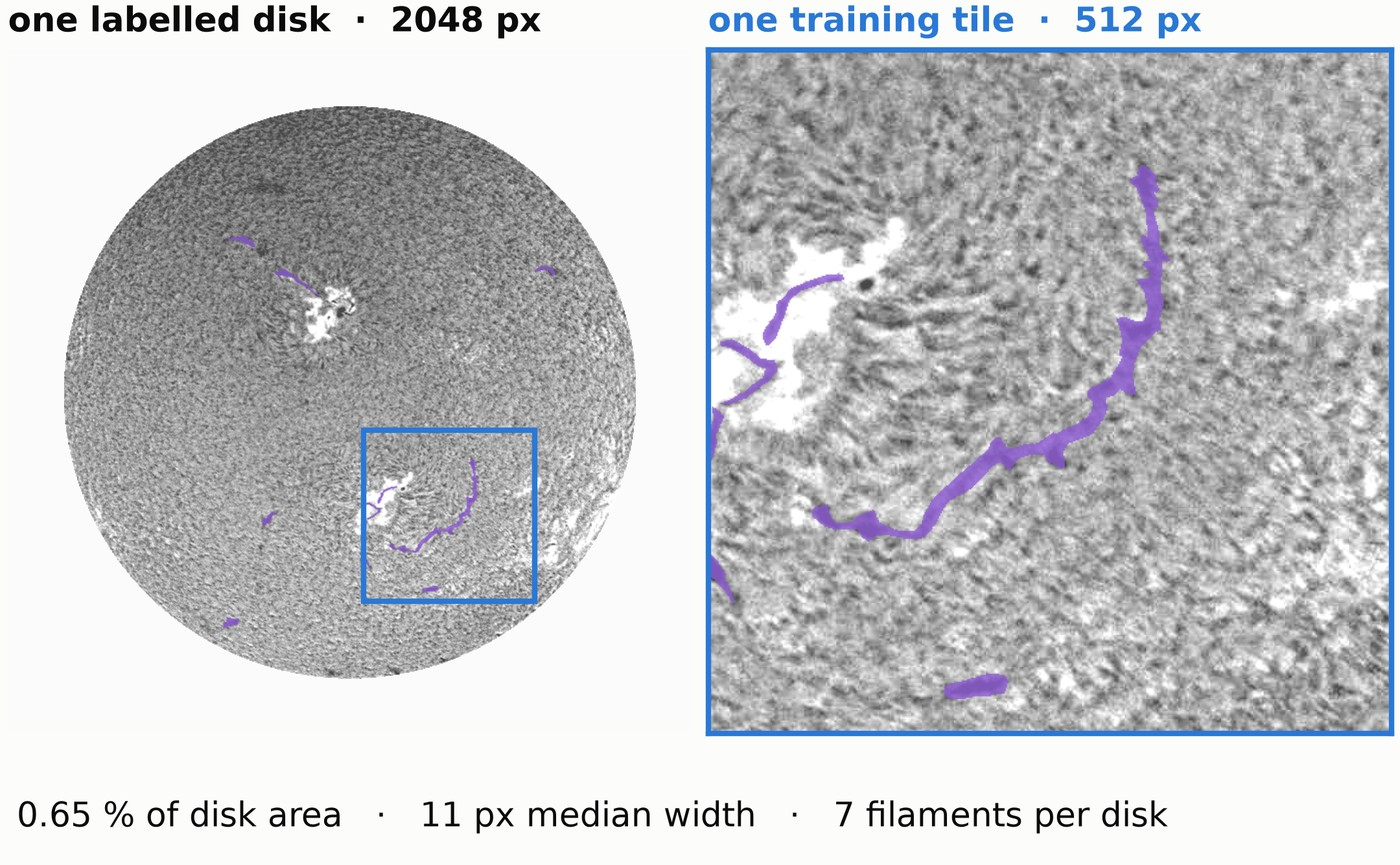
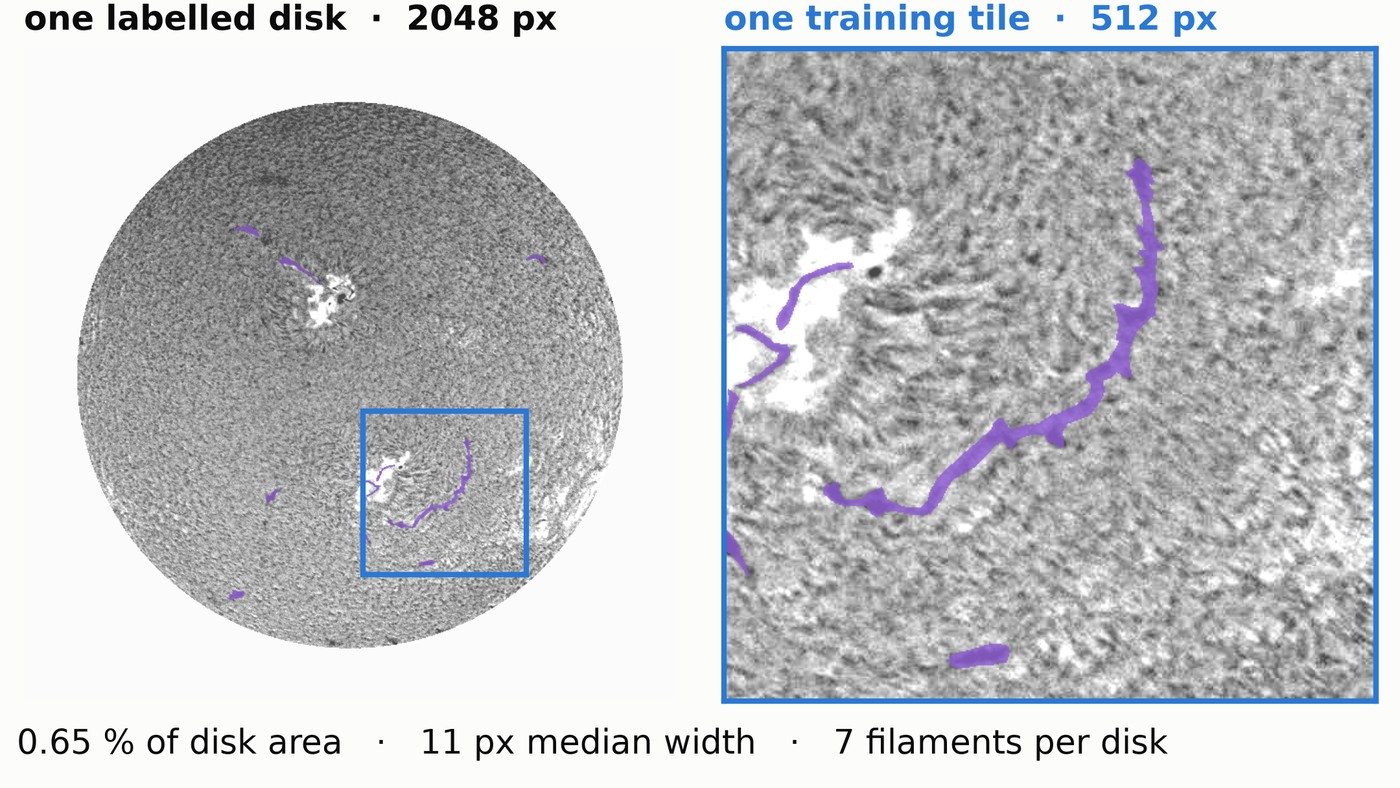
One figure scale, and metric equations where each metric first appears
- Every analytical figure is now 16:9 at 1400x788: the task, the architecture
  comparison and the hero prediction were rebuilt or padded to match the ones
  that already were. The three qualitative panels share a second, taller format
  between themselves.
- Metric definitions moved out of a glossary list and into the caption of the
  figure where each metric first appears, written as equations: Dice with the
  architecture comparison, clDice and PQ with the adaptation comparison.

diff --git a/projects.html b/projects.html
@@ -15,11 +15,11 @@
 .figlab{font-family:'JetBrains Mono',monospace;font-size:.62rem;letter-spacing:.15em;text-transform:uppercase;color:var(--ink-soft);opacity:.7;margin:1.2rem 0 -.4rem}
 .figs img{width:100%;height:auto;display:block;background:#fcfcfb}
 .figs1{grid-template-columns:1fr;max-width:1000px}
-.figsq{grid-template-columns:1fr;max-width:820px}
+/* one width for every figure, so 16:9 figures all render the same height */
+.figsq{grid-template-columns:1fr;max-width:1000px}
 .proj h3{font-size:1.35rem;font-weight:500;margin:2.4rem 0 .2rem;scroll-margin-top:90px}
-.defs{max-width:52rem;margin:.4rem 0 1.2rem;padding-left:0;list-style:none}
-.defs li{color:var(--ink-soft);font-weight:300;line-height:1.6;margin:.35rem 0}
-.defs b{color:var(--ink);font-weight:600}
+.eq{display:block;font-family:'JetBrains Mono',monospace;font-size:.72rem;line-height:1.9;color:var(--ink);background:var(--paper-warm);border-left:2px solid var(--rust);padding:.5rem .7rem;margin:.5rem 0 .4rem}
+.eq i{font-style:normal;color:var(--ink-soft)}
 .kv{display:flex;gap:.8rem;flex-wrap:wrap;margin:.5rem 0 1rem}
 .kv a{font-family:'JetBrains Mono',monospace;font-size:.66rem;letter-spacing:.12em;text-transform:uppercase;border:1px solid var(--ink);color:var(--ink);padding:.55rem .9rem}
 .kv a:hover{background:var(--rust);border-color:var(--rust);color:var(--paper);text-decoration:none}
@@ -50,16 +50,9 @@
 <p>Can a vision foundation model pretrained on everyday photographs segment thin, faint filaments on the Sun better than a CNN trained from scratch &mdash; and how much of the encoder has to change? Six architectures on 958 GONG full-disk images (MAGFiLO annotations), 5 folds &times; 3 seeds, one factor changed per arm. A second stage then pretrains the winning encoder on 100,000 unlabelled disks of the same instrument.</p>
 <p><b>Result:</b> pretraining bought <b>efficiency, not accuracy</b>. A SAM&nbsp;2 encoder with 0.43&nbsp;% of its weights adapted by LoRA matches the best from-scratch model while training <b>7&times; fewer</b> weights, and beats full fine-tuning of the same encoder by 0.03 Dice.</p>
 
-<p class="figlab">How predictions are scored</p>
-<ul class="defs">
-  <li><b>Dice</b> &mdash; overlap between predicted and annotated filament pixels. 1.0 is perfect; background is excluded, so it does not flatter a model that predicts nothing.</li>
-  <li><b>clDice</b> &mdash; the same overlap measured on the <i>skeletons</i>. A filament broken into pieces is penalised even when almost every pixel is right.</li>
-  <li><b>PQ</b> &mdash; panoptic quality: filaments counted as objects, where a prediction matches an annotation only if the two overlap by more than half.</li>
-</ul>
-
 <p class="figlab">The task</p>
 <div class="figs figs1">
-  <figure><a class="lb" href="assets/filament_segmentation.png" data-cap="A GONG H-alpha full disk (left) and the SAM 2 + LoRA prediction with the MAGFiLO ground-truth outline (right)"><img src="assets/filament_segmentation.png" alt="GONG H-alpha full disk and the SAM 2 + LoRA filament prediction outlined against the annotation"></a><figcaption>A GONG H&alpha; full disk, and what the adapted model draws on it. Orange is the prediction, green the MAGFiLO annotation outline &mdash; the two agree along the spine of each filament and disagree at the ends, which is where thin-structure metrics are decided.</figcaption></figure>
+  <figure><a class="lb" href="assets/sf/hero_prediction.jpg" data-cap="A GONG H-alpha full disk (left) and the SAM 2 + LoRA prediction with the MAGFiLO ground-truth outline (right)"><img src="assets/sf/hero_prediction.jpg" alt="GONG H-alpha full disk and the SAM 2 + LoRA filament prediction outlined against the annotation"></a><figcaption>A GONG H&alpha; full disk, and what the adapted model draws on it. Orange is the prediction, green the MAGFiLO annotation outline &mdash; the two agree along the spine of each filament and disagree at the ends, which is where thin-structure metrics are decided.</figcaption></figure>
 </div>
 <div class="figs figs1">
   <figure><a class="lb" href="assets/sf/f1_task.jpg" data-cap="One labelled disk and one 512-px training tile at full resolution"><img src="assets/sf/f1_task.jpg" alt="A labelled solar disk beside one 512-pixel training tile at full resolution"></a><figcaption>Why this is hard. Filaments occupy <b>0.65&nbsp;% of the disk</b>, run about <b>11&nbsp;px wide</b> at 2048&nbsp;px, and there are about <b>7 per disk</b>. The right panel is one 512-px training tile at full resolution &mdash; at disk scale a filament is a hairline.</figcaption></figure>
@@ -67,10 +60,10 @@
 
 <p class="figlab">Which architecture</p>
 <div class="figs figs1">
-  <figure><a class="lb" href="assets/sf/f2_efficiency.png" data-cap="Six segmentation architectures: Dice and trained parameters"><img src="assets/sf/f2_efficiency.png" alt="Six architectures compared by Dice and by trained parameter count"></a><figcaption>Six architectures, each in its best configuration. <b>(a)</b> Dice &mdash; the top four sit within 0.014 of each other. <b>(b)</b> Trained parameters. SAM&nbsp;2 with LoRA reaches the highest Dice on 5.4&nbsp;M trained weights against 37&nbsp;M for the best from-scratch model: the foundation model buys efficiency, not accuracy. 5 folds &times; 3 seeds; error bars are the spread across seeds.</figcaption></figure>
+  <figure><a class="lb" href="assets/sf/f2_efficiency.png" data-cap="Six segmentation architectures: Dice and trained parameters"><img src="assets/sf/f2_efficiency.png" alt="Six architectures compared by Dice and by trained parameter count"></a><figcaption><b>Dice</b> is the overlap between the predicted filament pixels <i>P</i> and the annotated ones <i>G</i>; background is excluded, so a model that predicts nothing scores zero rather than 99&nbsp;%.<span class="eq">Dice = 2&thinsp;|P &cap; G| / ( |P| + |G| )<i>&nbsp;&nbsp;&mdash; 1.0 is perfect</i></span>Six architectures, each in its best configuration. <b>(a)</b> Dice &mdash; the top four sit within 0.014 of each other. <b>(b)</b> Trained parameters. SAM&nbsp;2 with LoRA reaches the highest Dice on 5.4&nbsp;M trained weights against 37&nbsp;M for the best from-scratch model: the foundation model buys efficiency, not accuracy. 5 folds &times; 3 seeds; error bars are the spread across seeds.</figcaption></figure>
 </div>
 <div class="figs figs1">
-  <figure><a class="lb" href="assets/sf/f3_sam2_adaptation.png" data-cap="SAM 2: low-rank adaptation versus full fine-tuning"><img src="assets/sf/f3_sam2_adaptation.png" alt="LoRA versus full fine-tuning of the same SAM 2 encoder on Dice, clDice and PQ"></a><figcaption>The same encoder, decoder, folds and schedule &mdash; only the adaptation differs. Low-rank adaptation trains <b>5.4&nbsp;M weights against 73.8&nbsp;M</b> and is ahead on pixel overlap (Dice 0.627 vs 0.596) and on topology (clDice 0.717 vs 0.698). At object level the two are tied. Full fine-tuning overfits ~650 training images.</figcaption></figure>
+  <figure><a class="lb" href="assets/sf/f3_sam2_adaptation.png" data-cap="SAM 2: low-rank adaptation versus full fine-tuning"><img src="assets/sf/f3_sam2_adaptation.png" alt="LoRA versus full fine-tuning of the same SAM 2 encoder on Dice, clDice and PQ"></a><figcaption><b>clDice</b> measures the same overlap on the <i>skeletons</i> <i>S</i>, so a filament broken into pieces is penalised even when almost every pixel is right. <b>PQ</b> counts filaments as objects: a predicted filament matches an annotated one only if they overlap by more than half.<span class="eq">T<sub>prec</sub> = |S<sub>P</sub> &cap; G| / |S<sub>P</sub>| &nbsp;&nbsp; T<sub>sens</sub> = |S<sub>G</sub> &cap; P| / |S<sub>G</sub>|<br>clDice = 2&thinsp;T<sub>prec</sub>&thinsp;T<sub>sens</sub> / ( T<sub>prec</sub> + T<sub>sens</sub> )<br>PQ = &Sigma;<sub>(p,g)&isin;TP</sub> IoU(p,g) / ( |TP| + &frac12;|FP| + &frac12;|FN| )<i>&nbsp;&nbsp;&mdash; match when IoU &gt; 0.5</i></span>The same encoder, decoder, folds and schedule &mdash; only the adaptation differs. Low-rank adaptation trains <b>5.4&nbsp;M weights against 73.8&nbsp;M</b> and is ahead on pixel overlap (Dice 0.627 vs 0.596) and on topology (clDice 0.717 vs 0.698). At object level the two are tied. Full fine-tuning overfits ~650 training images.</figcaption></figure>
 </div>
 
 <p class="figlab">What the models draw</p>
